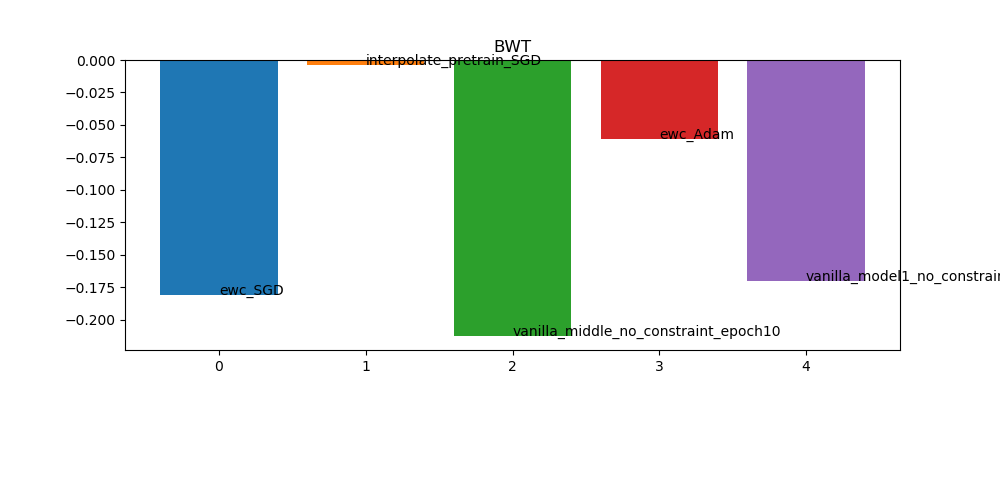
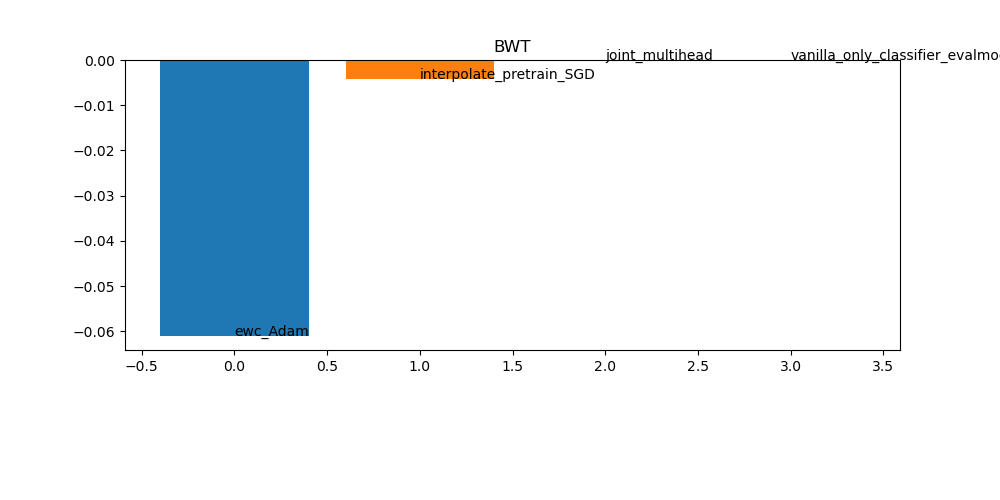
only classifier plot

diff --git a/plot_avg_acc_all.py b/plot_avg_acc_all.py
@@ -94,8 +94,8 @@ def main():
             #    trainer = 'mas'
             if 'CIFAR100_for_Resnet' in filename and 'epoch_60' in filename and 'Adam' in filename and 'ewc' in filename:
                 trainer = 'ewc_Adam'
-            elif 'CIFAR100_for_Resnet' in filename and 'epoch_100' in filename and 'SGD' in filename and 'ewc' in filename:
-                trainer = 'ewc_SGD'
+            #elif 'CIFAR100_for_Resnet' in filename and 'epoch_100' in filename and 'SGD' in filename and 'ewc' in filename:
+            #    trainer = 'ewc_SGD'
             # elif 'CIFAR100_for_Resnet' in filename and 'epoch_60' in filename and 'Adam' in filename and 'interpolate_pretrain' in filename:
             #     trainer = 'interpolate_pretrain_Adam'
             elif 'CIFAR100_for_Resnet' in filename and 'epoch_100' in filename and 'SGD' in filename and 'interpolate_pretrain' in filename:
@@ -104,10 +104,18 @@ def main():
             #     trainer = 'vanilla_middle_from_center_epoch10'
             # elif 'CIFAR100_for_Resnet' in filename and 'epoch_100' in filename and 'SGD' in filename and 'vanilla_middle_from_center' in filename:
             #     trainer = 'vanilla_middle_from_center_epoch100'
-            elif 'CIFAR100_for_Resnet' in filename and 'epoch_10.txt' in filename and 'SGD' in filename and 'vanilla_model1_no_constraint' in filename:
-                trainer = 'vanilla_model1_no_constraint_epoch10'
-            elif 'CIFAR100_for_Resnet' in filename and 'epoch_10' in filename and 'SGD' in filename and 'vanilla_middle_no_constraint' in filename:
-                trainer = 'vanilla_middle_no_constraint_epoch10'
+            #elif 'CIFAR100_for_Resnet' in filename and 'epoch_10.txt' in filename and 'SGD' in filename and 'vanilla_model1_no_constraint' in filename:
+            #    trainer = 'vanilla_model1_no_constraint_epoch10'
+            #elif 'CIFAR100_for_Resnet' in filename and 'epoch_10' in filename and 'SGD' in filename and 'vanilla_middle_no_constraint' in filename:
+            #    trainer = 'vanilla_middle_no_constraint_epoch10'
+           
+            elif 'CIFAR100_for_Resnet' in filename and 'epoch_100' in filename and 'SGD' in filename and 'vanilla_only_classifier_evalmode' in filename:
+                trainer = 'vanilla_only_classifier_evalmode_SGD'
+            #elif 'CIFAR100_for_Resnet' in filename and 'epoch_60' in filename and 'Adam' in filename and 'vanilla_only_classifier_evalmode' in filename:
+            #    trainer = 'vanilla_only_classifier_evalmode_Adam'
+            
+            elif 'CIFAR100_for_Resnet' in filename and 'epoch_10' in filename and 'Adam' in filename and 'joint_multihead' in filename:
+                trainer = 'joint_multihead'
             # elif 'CIFAR100_for_Resnet' in filename and 'epoch_100' in filename:
             #     trainer = filename
            
@@ -174,7 +182,7 @@ def main():
 
             #else:
             #    continue
-            lamb = re.search('lamb_(.+?)_', filename).group(1)
+            #lamb = re.search('lamb_(.+?)_', filename).group(1)
             lr = re.search('lr_(.+?)_', filename).group(1)
             acc = get_acc(os.path.join(target_dir, filename))
             if trainer not in acc_list.keys():
@@ -227,7 +235,8 @@ def main():
             plt.text(len(acc)-1, acc[-1], "acc: "+str(acc[-1]))
 
         
-        plt.legend(loc='upper right')
+        #plt.legend(loc='upper right')
+        plt.legend()
         plt.grid()
         plt.savefig(sys.argv[3])
         # print("knowledge diff : {}".format(sum(np.array(knowledge_list[0])-np.array(knowledge_list[1]))))
